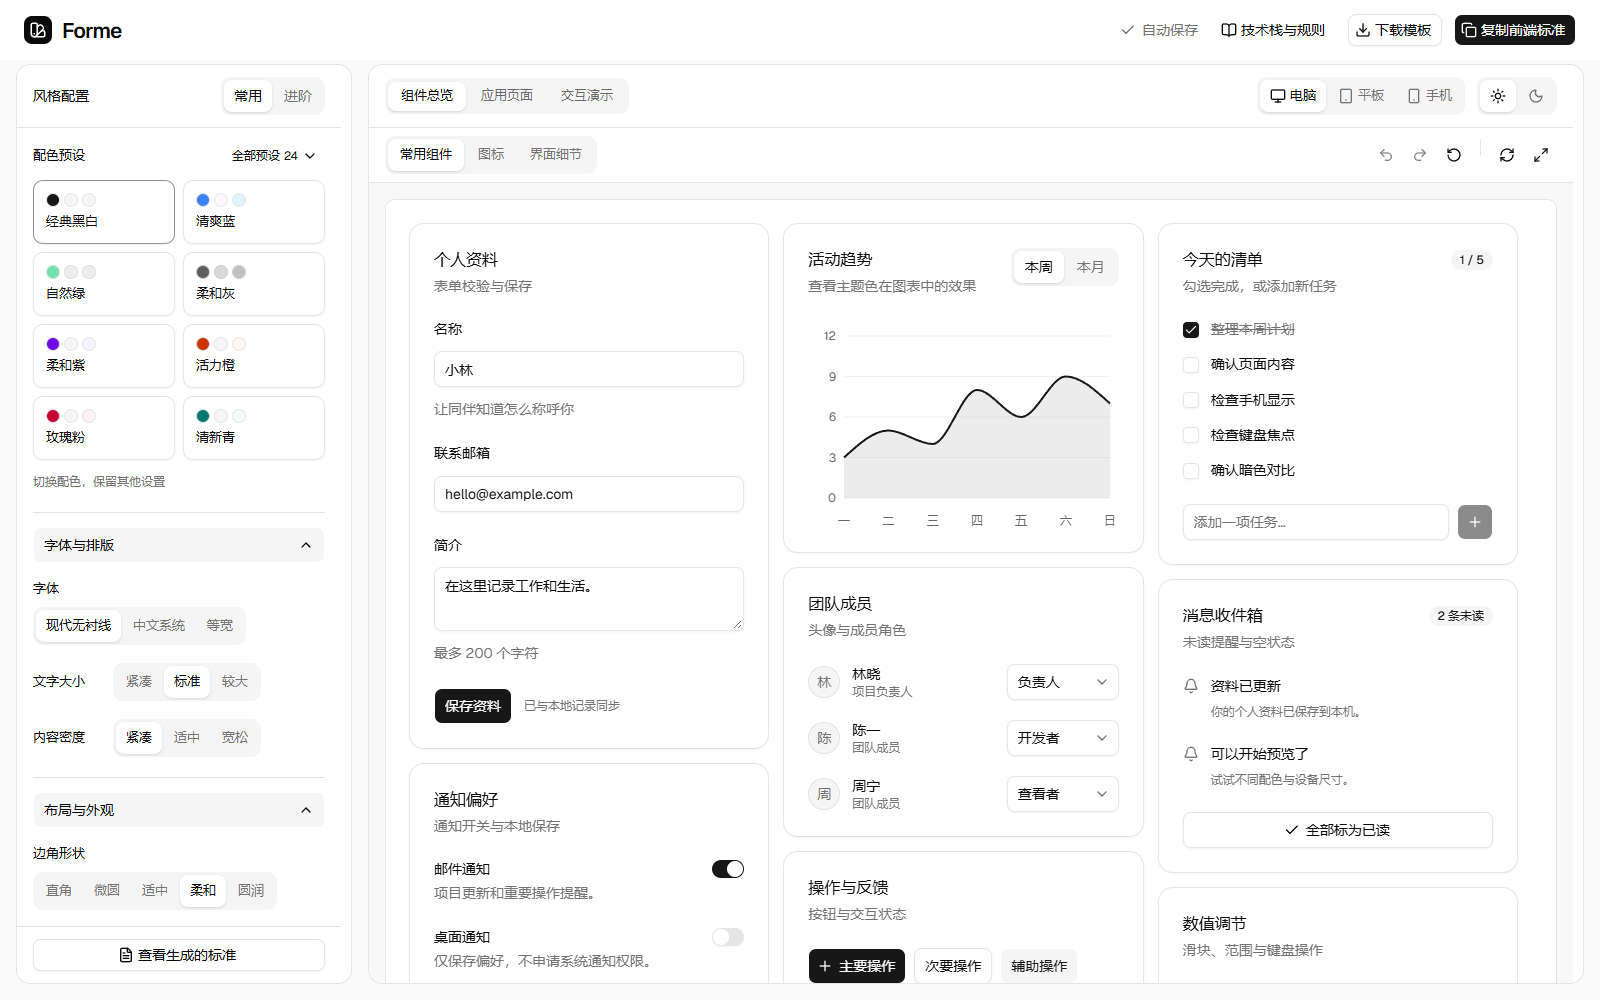
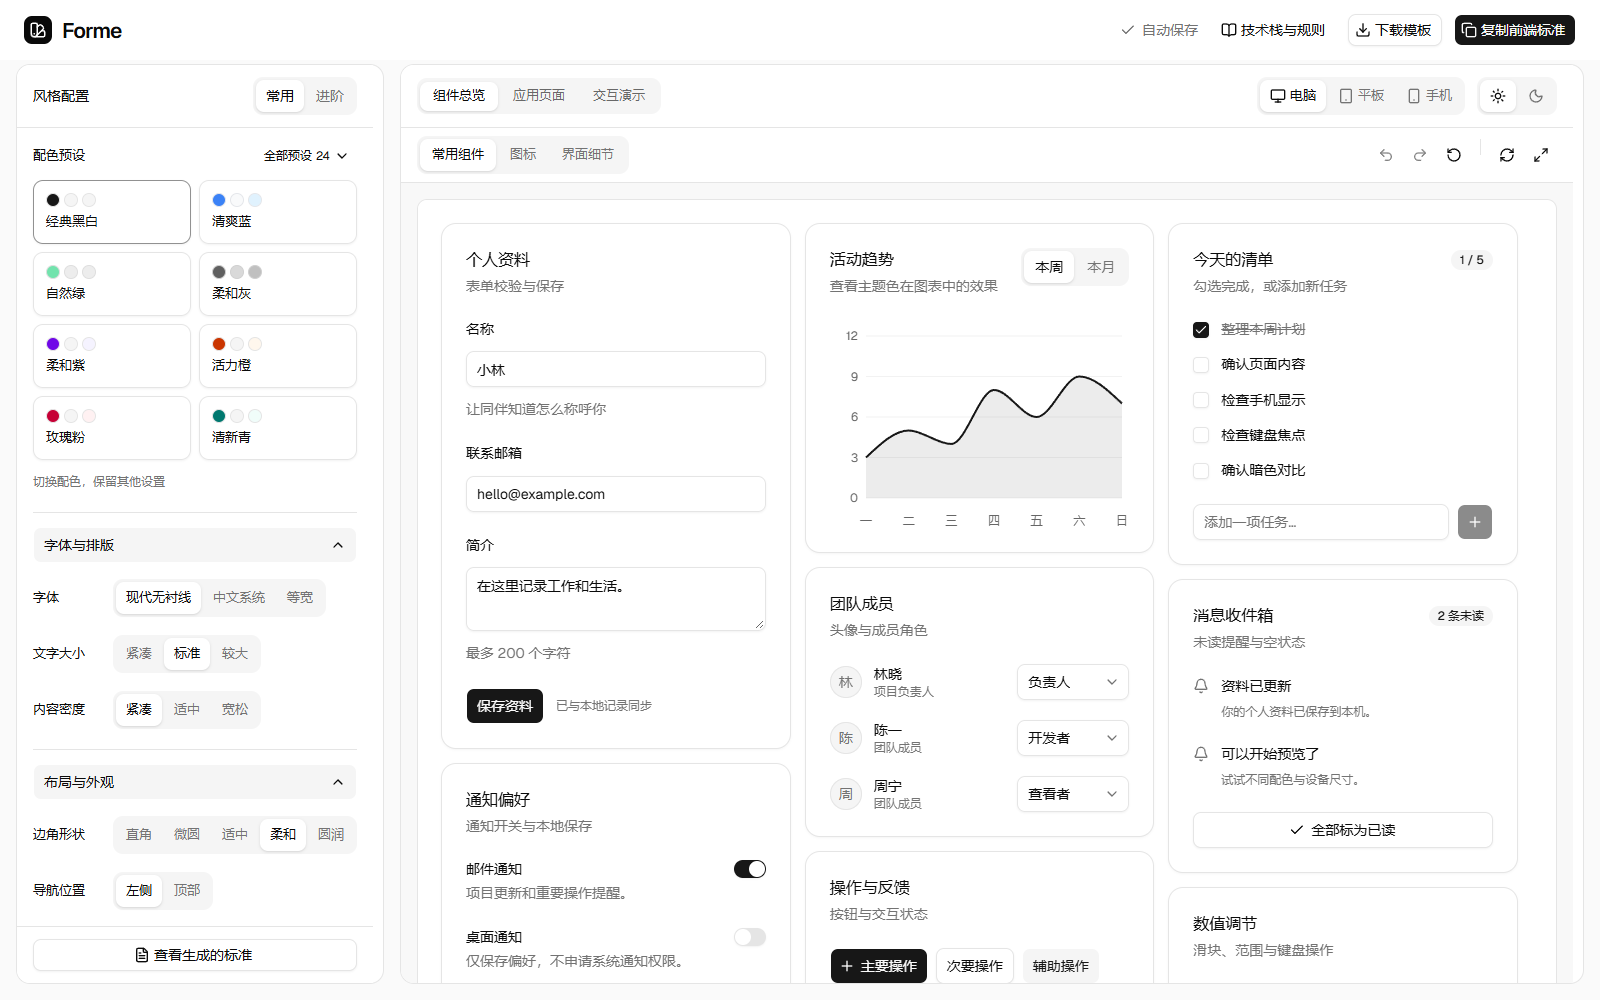
Keep workbench URLs clean and prevent avoidable preset wrapping

diff --git a/src/workbench.css b/src/workbench.css
@@ -962,7 +962,7 @@ html:has(.config-workbench) { overflow:hidden; scrollbar-gutter:auto; }
 .editor-header .header-right { gap:12px; }
 .editor-header .local-indicator { margin-right:4px; }
 .config-workbench { flex:1; min-height:0; padding:4px 16px 16px; overflow:hidden; background:color-mix(in oklab,var(--muted) 45%,var(--background)); }
-.config-layout { height:100%; min-height:0; grid-template-columns:336px minmax(0,1fr); gap:16px; background:transparent; }
+.config-layout { height:100%; min-height:0; grid-template-columns:368px minmax(0,1fr); gap:16px; background:transparent; }
 .config-controls, .config-preview { position:relative; top:auto; height:100%; min-height:0; border:1px solid var(--border); border-radius:var(--radius-xl); background:var(--background); overscroll-behavior:contain; scrollbar-gutter:stable; scrollbar-width:thin; }
 .config-controls { overflow-y:auto; }
 .config-controls-header { min-height:60px; padding:12px 16px; gap:8px; border-bottom:1px solid var(--border); }
@@ -986,10 +986,10 @@ html:has(.config-workbench) { overflow:hidden; scrollbar-gutter:auto; }
 .common-option-section { padding-block:14px 20px; }
 .common-option-trigger[data-slot=button] { background:transparent; padding:0; margin:0 0 14px; min-height:28px; font-size:13px; }
 .common-option-section [data-slot=field-group] { gap:18px; padding:0; }
-.common-option-section .preset-field { display:grid; grid-template-columns:70px minmax(0,1fr); column-gap:10px; row-gap:8px; align-items:center; }
-.common-option-section .preset-field > [data-slot=field-label] { margin:0; }
-.common-option-section .preset-field > [data-slot=field-description] { grid-column:1/-1; }
-.common-option-section .preset-field:is([data-option-field=font],[data-option-field=radius]) { grid-template-columns:minmax(0,1fr); }
+.common-option-section .preset-field { flex-direction:row; flex-wrap:wrap; gap:8px 10px; align-items:center; }
+.common-option-section .preset-field > [data-slot=field-label] { width:70px; flex:0 0 70px; margin:0; }
+.common-option-section .preset-field > .option-buttons { width:max-content; max-width:100%; flex:0 1 auto; }
+.common-option-section .preset-field > [data-slot=field-description] { width:100%; flex-basis:100%; }
 .config-categories { gap:20px; }
 .config-category-list[data-slot=tabs-list] { height:36px; }
 .config-category-list > [data-slot=tabs-trigger] { padding-inline:6px; font-size:13px; }
@@ -1016,7 +1016,7 @@ html:has(.config-workbench) { overflow:hidden; scrollbar-gutter:auto; }
 .cards-demo, .cards-demo > .flex { gap:var(--ui-stack-gap,16px); }
 .config-preview .preview-content { margin:0; }
 @media(min-width:761px) and (max-width:1250px) {
-  .config-layout { grid-template-columns:312px minmax(0,1fr); gap:12px; }
+  .config-layout { grid-template-columns:336px minmax(0,1fr); gap:12px; }
   .preview-navigation { flex-wrap:wrap; gap:8px; }
   .config-preview-topbar { margin-left:auto; }
   .config-preview-topbar .device-label { display:none; }

diff --git a/src/router.tsx b/src/router.tsx
@@ -1,11 +1,12 @@
 import { lazy, Suspense } from "react";
-import { createRouter, createRoute, createRootRoute, redirect } from "@tanstack/react-router";
+import { createRouter, createRoute, createRootRoute, redirect, stripSearchParams } from "@tanstack/react-router";
 import { AppShell } from "./shell";
 import { Skeleton } from "@/components/ui/skeleton";
 const Workbench = lazy(() => import("@/features/guide/index"));
 const root = createRootRoute({
   component: AppShell,
   validateSearch: (s: Record<string, unknown>) => ({ q: typeof s.q === "string" ? s.q : "", view: typeof s.view === "string" ? s.view : "projects" }),
+  search: { middlewares: [stripSearchParams({ q: "", view: "projects" })] },
   notFoundComponent: () => <div className="p-8">页面不存在，请返回工作台。</div>,
 });
 const routes = [createRoute({ getParentRoute: () => root, path: "/", component: () => <Suspense fallback={<Skeleton className="m-6 h-80" />}><Workbench /></Suspense> })];

diff --git a/docs/design-system.md b/docs/design-system.md
@@ -2,7 +2,7 @@
 
 视觉基线是官方 shadcn/ui radix-vega，组件源码归项目持有。保留 shadcn/ui 的原生语言；图标统一为 Lucide，动画统一为 Motion。基础组件通过官方 CLI 生成并逐个核对；项目预设放在单独组合层，明确区分原生 API 与主题扩展。来源与必要补丁见 component-policy.md。
 
-Forme 工作台参考 shadcn Create，保留浅色参数侧栏与宽预览画布。桌面侧栏宽 336px，工具栏收为两行，面板间距与画布留白 16px；两栏各自滚动，使用 overscroll-behavior: contain 防止串滚、scrollbar-gutter: stable 保持切换分类后的内容宽度。默认展示十五组可交互组件与数据表，包含图表、表单、通知、列表、滑块与范围选择。所有配置、预览、规则和导出都在一页内完成；不收集项目名称或需求文本。常用区提供八套配色与十组选择，按字体与排版、布局与外观、动效分组并默认展开；全部二十四套配色可在可搜索的“全部预设”查看。进阶区将 57 组选择按外观、布局、图标、动效、交互与细节分组。配置不要求输入原始颜色、数值或代码。
+Forme 工作台参考 shadcn Create，保留浅色参数侧栏与宽预览画布。桌面侧栏宽 368px，中等窗口为 336px；常用选项能并排时保留一行，空间不足时整组选项换到下一行。以上只作用于工作台配置区，不改变导出项目的视觉标准。工具栏收为两行，面板间距与画布留白 16px；两栏各自滚动，使用 overscroll-behavior: contain 防止串滚、scrollbar-gutter: stable 保持切换分类后的内容宽度。默认展示十五组可交互组件与数据表，包含图表、表单、通知、列表、滑块与范围选择。所有配置、预览、规则和导出都在一页内完成；不收集项目名称或需求文本。常用区提供八套配色与十组选择，按字体与排版、布局与外观、动效分组并默认展开；全部二十四套配色可在可搜索的“全部预设”查看。进阶区将 57 组选择按外观、布局、图标、动效、交互与细节分组。配置不要求输入原始颜色、数值或代码。
 
 选项和行为的唯一来源：
 - option-catalog.ts：中文名称、合法选项、整套预设和配置更新。
